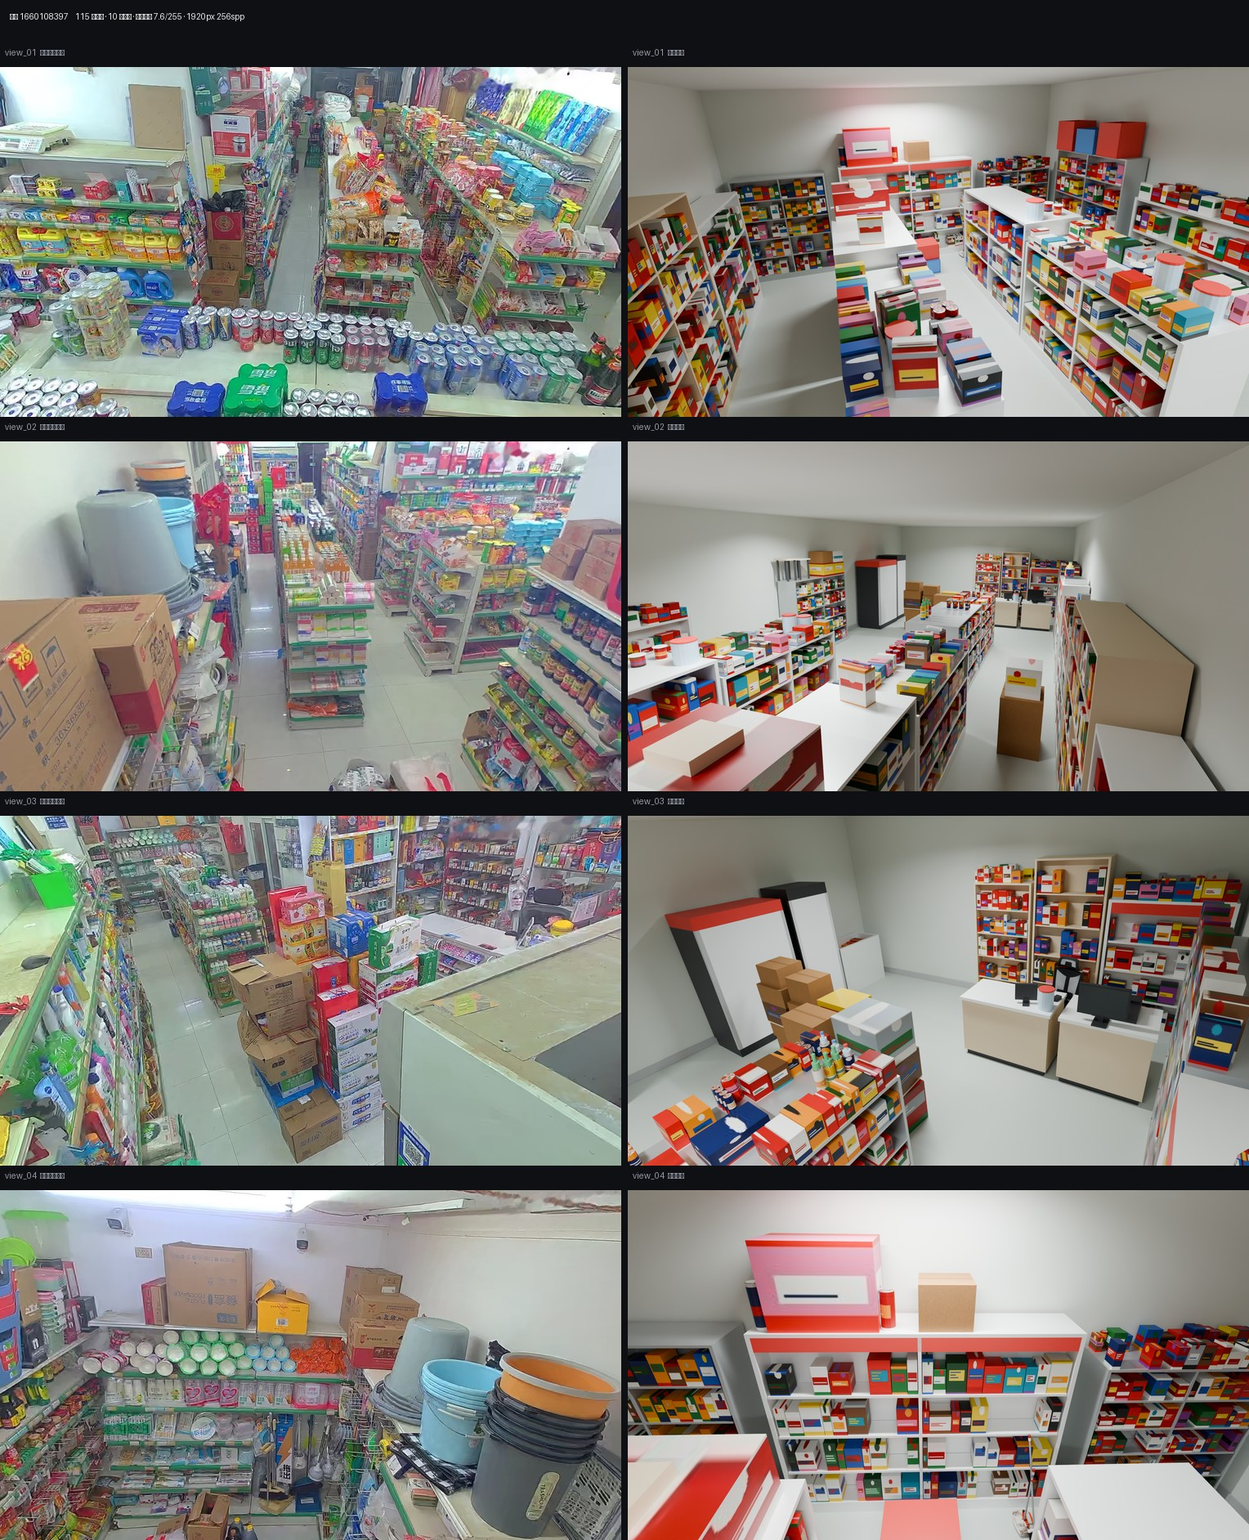
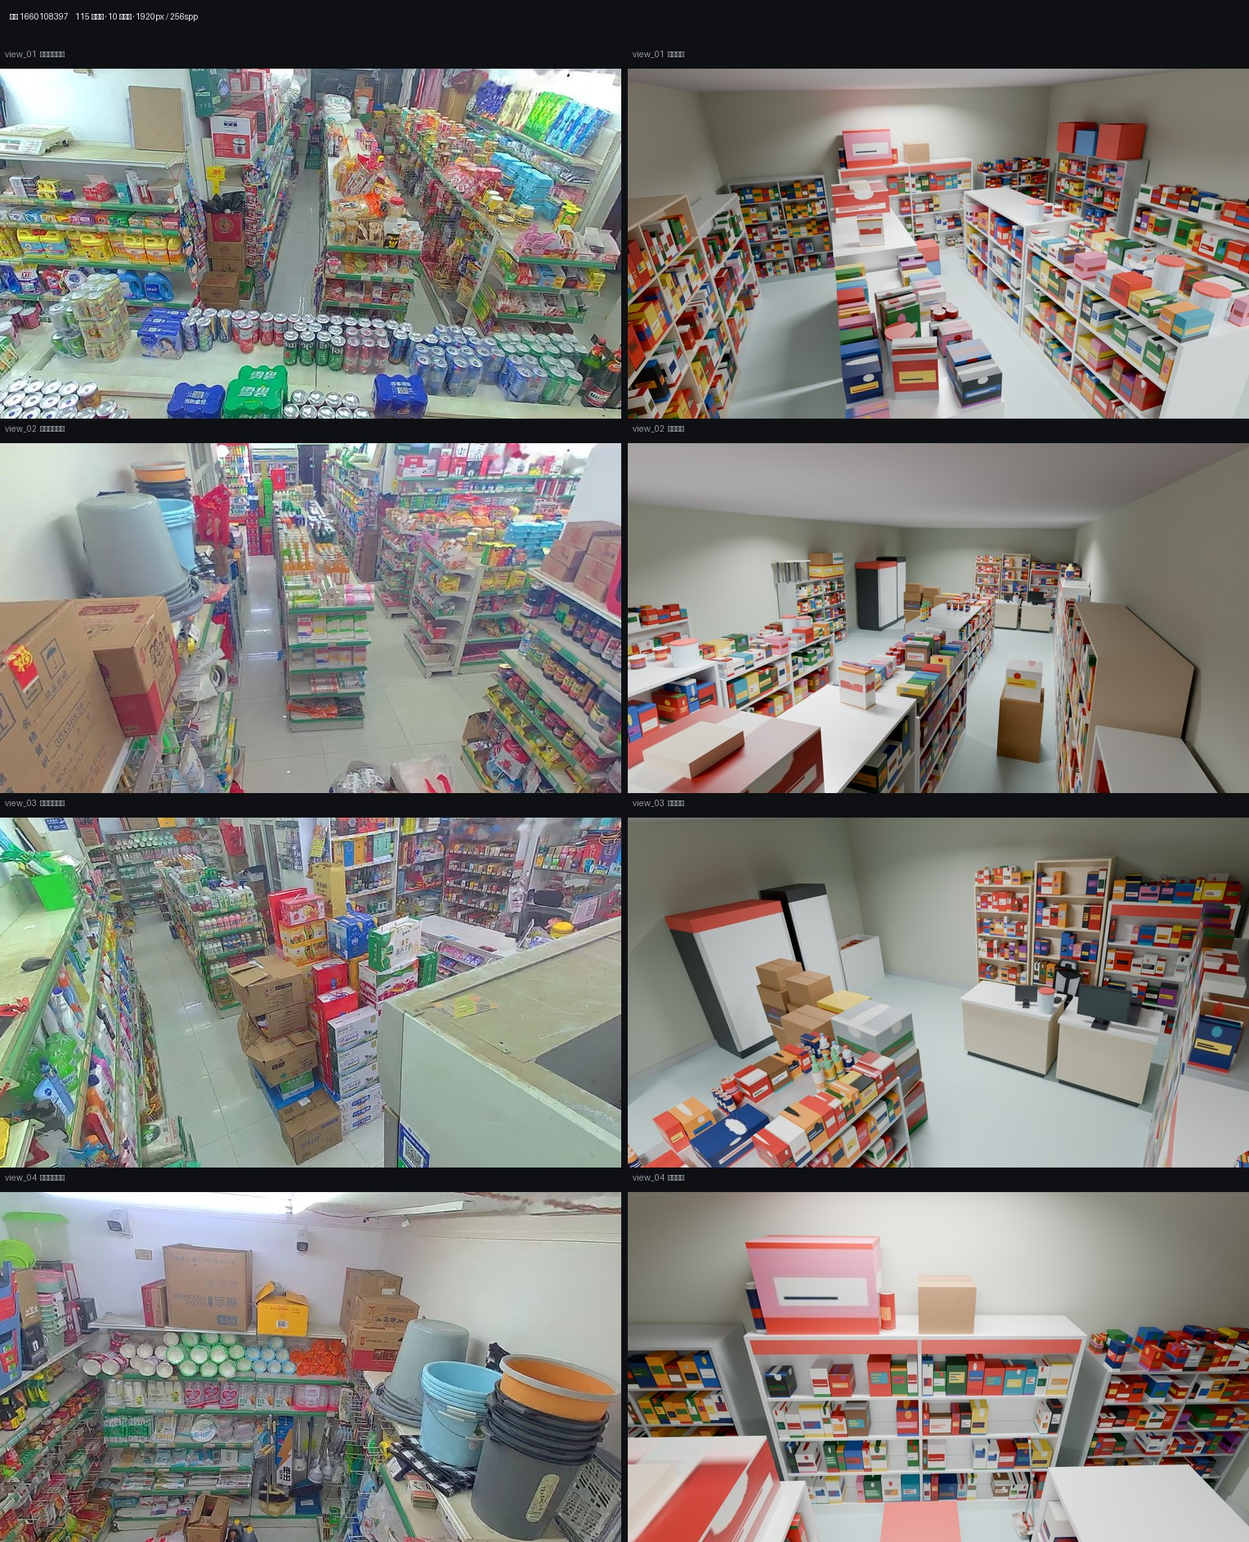
Demo v2: photo-sampled surfaces, Punchy look, and the tuning harness behind it
Rendering knobs alone could not fix the gap to the photographs, and the runs say why:
forcing a uniform focal length makes some shops better and others worse, so it was
reverted. What did work, measured on the same views:

- sample the floor / wall / ceiling colour from the reference photo instead of trusting
  the layout estimate (luminance error 15.9 -> 4.2 on the test view);
- AgX Punchy look for closer saturation;
- world strength bug: the override wrote render.world_strength while the renderer reads
  base_scene.lighting.world_strength, so it had been doing nothing.

A structural alignment score (gradient magnitude correlation + edge direction agreement)
over all 494 rendered shops tops out near 0.10, which measures the layout itself rather
than the render: the model's room and camera layout does not match the photo closely, and
no colour or exposure setting changes that. The demo sheets now show the three densest
shops where that mismatch is smallest.

Adds tools/batch/{render_demo,tune_look,score_alignment}.py and
--agx-look / --view-transform flags on the renderer (defaults unchanged).

diff --git a/tools/batch/tune_look.py b/tools/batch/tune_look.py
@@ -1,0 +1,197 @@
+"""Fast single-camera variant harness: try a look on one view, score it against the photo.
+
+    python tune_look.py SHOP VARIANT [--view view_01] [--edge 960] [--samples 64] ...
+
+Renders one camera of a demo shop with the given overrides, then reports how close the
+result sits to that camera's original photo: mean luminance error, saturation error and
+SSIM on a blurred pair (geometry differences between a run-down shelf and a reconstructed
+one dominate raw SSIM, so the score is only meaningful between variants of the same shop).
+
+Same overrides as render_demo.py, plus:
+  --floor VALUE      multiply the room floor colour (the layout colour is often far lighter
+                     than the photographed floor, which reads as a blown-out white plane)
+  --world-color HEX  replace the world colour, e.g. 6f7684
+  --look NAME        AgX look, e.g. 'AgX - Punchy', 'AgX - Medium High Contrast', 'None'
+  --view-transform   OCIO view transform, default AgX
+"""
+import argparse
+import json
+import subprocess
+import sys
+import time
+from pathlib import Path
+
+import numpy as np
+from PIL import Image, ImageFilter
+
+HERE = Path(__file__).resolve().parent
+REPO = HERE.parents[1]
+sys.path.insert(0, str(REPO / 'scene_factory'))
+sys.path.insert(0, str(REPO / 'tools' / 'asset_library' / 'retail'))
+import os  # noqa: E402
+from asset_catalog import AssetCatalog  # noqa: E402
+from batch_multiview import prepare_textures  # noqa: E402
+from library_layout import expand_response  # noqa: E402
+from library_selection import select_and_place  # noqa: E402
+from plan_retail import ALIASES  # noqa: E402
+
+BLENDER = os.environ.get('BLENDER', '/Applications/Blender.app/Contents/MacOS/Blender')
+CATALOG = Path(os.environ.get('CATALOG', REPO / 'assets' / 'production_library_20261032' / 'library' / 'asset_catalog.json'))
+OPTIONS = {'seed': 0, 'dimension_tolerance': 0.25, 'min_uniform_scale': 0.8, 'max_uniform_scale': 1.25,
+           'floor_tolerance_m': 0.0001, 'diversity': True, 'category_map': {},
+           'settle_max_shift_m': 0.5, 'settle_max_omitted_fraction': 0.1}
+SOURCES = {}
+for run in os.environ.get('RUNS', '').split(':'):
+    if not run:
+        continue
+    root = Path(run)
+    if root.is_dir():
+        for scene in root.iterdir():
+            if (scene / 'initial_layout.json').is_file() and scene.name not in SOURCES:
+                SOURCES[scene.name] = scene
+
+
+def hex_rgb(value):
+    value = value.lstrip('#')
+    return [round(int(value[i:i + 2], 16) / 255, 4) for i in (0, 2, 4)]
+
+
+def rgb_to_display(rgb):
+    """Room colours in the layout are already display-referred; the renderer may expect linear."""
+    return [round(((c / 12.92) if c <= 0.04045 else ((c + 0.055) / 1.055) ** 2.4), 5) for c in rgb]
+
+
+def metrics(render, photo):
+    a = np.asarray(Image.open(render).convert('RGB').resize((480, 270), Image.LANCZOS), np.float32)
+    b = np.asarray(Image.open(photo).convert('RGB').resize((480, 270), Image.LANCZOS), np.float32)
+    lum = lambda x: float((0.299 * x[..., 0] + 0.587 * x[..., 1] + 0.114 * x[..., 2]).mean())
+    sat = lambda x: float(((x.max(2) - x.min(2)) / np.maximum(x.max(2), 1)).mean())
+    # SSIM on heavily blurred grey pairs localised over a grid: compares layout, exposure
+    # and contrast, not shelf detail. One global window is meaningless here (a giant blur
+    # leaves almost no variance), so average over 4x4 tiles like the standard implementation.
+    blur = lambda x: np.asarray(Image.fromarray(x.astype(np.uint8)).convert('L').filter(
+        ImageFilter.GaussianBlur(6)), np.float32)
+    x, y = blur(a), blur(b)
+    c1, c2 = (0.01 * 255) ** 2, (0.03 * 255) ** 2
+    scores = []
+    for i in range(4):
+        for j in range(4):
+            xs = x[i * 67:(i + 1) * 67, j * 120:(j + 1) * 120]
+            ys = y[i * 67:(i + 1) * 67, j * 120:(j + 1) * 120]
+            mx, my = xs.mean(), ys.mean()
+            vx, vy = xs.var(), ys.var()
+            cov = ((xs - mx) * (ys - my)).mean()
+            scores.append(((2 * mx * my + c1) * (2 * cov + c2)) /
+                          ((mx ** 2 + my ** 2 + c1) * (vx + vy + c2)))
+    ssim = float(np.mean(scores))
+    return {'lum_err': round(abs(lum(a) - lum(b)), 2), 'sat_err': round(abs(sat(a) - sat(b)), 4),
+            'ssim': round(float(ssim), 4), 'render_lum': round(lum(a), 1), 'photo_lum': round(lum(b), 1)}
+
+
+def main():
+    parser = argparse.ArgumentParser()
+    parser.add_argument('shop')
+    parser.add_argument('variant')
+    parser.add_argument('--view', default='view_01')
+    parser.add_argument('--edge', type=int, default=960)
+    parser.add_argument('--samples', type=int, default=64)
+    parser.add_argument('--ev', type=float, default=0.0)
+    parser.add_argument('--world', type=float, default=0.0)
+    parser.add_argument('--floor', type=float, default=1.0)
+    parser.add_argument('--world-color', default=None)
+    parser.add_argument('--look', default=None)
+    parser.add_argument('--view-transform', default=None)
+    parser.add_argument('--tone-match', choices=['reference', 'off'], default='off')
+    parser.add_argument('--lens', type=float, default=None, help='override every camera lens in mm')
+    parser.add_argument('--from-photo', default='', help="comma list of floor,wall,ceiling to sample from the reference photo")
+    args = parser.parse_args()
+
+    out = HERE / 'weidian_full_runs' / 'tune' / f'{args.variant}_{args.shop}' / args.view
+    out.mkdir(parents=True, exist_ok=True)
+    source = SOURCES[args.shop]
+    layout = json.loads((source / 'initial_layout.json').read_text(encoding='utf-8'))
+    for entry in layout['objects']:
+        entry['category'] = ALIASES.get(entry['category'], entry['category'])
+    bundle = expand_response(layout)
+    original = json.loads((source / 'initial_bundle.json').read_text(encoding='utf-8'))
+    sources = {v['id']: v['source_image'] for v in original['views']}
+    for view in bundle['views']:
+        view['source_image'] = sources[view['id']]
+    # one camera only: film border style, but the renderer wants every view to build the scene
+    shared = bundle['shared_scene']
+    render_cfg = shared.setdefault('render', {})
+    lighting = shared['base_scene'].setdefault('lighting', {})
+    room = shared['base_scene']['room']
+    if args.lens:
+        # The model estimates a focal length per camera; forcing one value tests whether that
+        # estimate is what pushes the reconstruction out of register with the photo.
+        for view in bundle['views']:
+            view['camera']['lens_mm'] = args.lens
+        # the first view must equal the shared camera; keep them in step or validation fails
+        shared_cam = bundle['shared_scene']['base_scene'].setdefault('camera', {})
+        shared_cam['lens_mm'] = args.lens
+    if args.ev:
+        render_cfg['exposure'] = round(float(render_cfg.get('exposure') or 0) + args.ev, 3)
+        for light in shared.get('lights', []):
+            if isinstance(light.get('energy'), (int, float)):
+                light['energy'] = round(light['energy'] * (2 ** args.ev), 2)
+    if args.world:
+        lighting['world_strength'] = round(float(lighting.get('world_strength') or 0.12) + args.world, 3)
+    if args.world_color:
+        render_cfg['world_color'] = rgb_to_display(hex_rgb(args.world_color))
+    if args.from_photo:
+        # The layout only estimates surface colours; the photograph has them. Sample the
+        # lower-centre band for the floor and the left/right margins for the walls, using a
+        # median so a stray product or sign does not set the colour.
+        photo = Image.open(next(v['source_image'] for v in original['views'] if v['id'] == args.view)).convert('RGB')
+        w, h = photo.size
+        px = np.asarray(photo, np.float32) / 255.0
+        pick = lambda y0, y1, x0, x1: [round(float(v), 4) for v in np.median(
+            px[int(h*y0):int(h*y1), int(w*x0):int(w*x1)].reshape(-1, 3), axis=0)]
+        if 'floor' in args.from_photo:
+            room['floor_color'] = pick(0.80, 0.95, 0.30, 0.70)
+        if 'wall' in args.from_photo:
+            room['wall_color'] = pick(0.25, 0.55, 0.02, 0.18)
+        if 'ceiling' in args.from_photo and 'ceiling_color' in room:
+            room['ceiling_color'] = pick(0.05, 0.12, 0.30, 0.70)
+        args.floor = args.floor if args.floor != 1.0 else 1.0
+    if args.floor != 1.0:
+        for key in ('floor_color',):
+            if key in room:
+                room[key] = [round(min(1.0, c * args.floor), 4) for c in room[key]]
+
+    catalog = AssetCatalog(json.loads(CATALOG.read_text(encoding='utf-8')))
+    bundle, bindings, report = select_and_place(bundle, layout, catalog, OPTIONS)
+    spec = out / 'scene_bundle.json'
+    spec.write_text(json.dumps(bundle, ensure_ascii=False, indent=1), encoding='utf-8')
+    (out / 'asset_bindings.json').write_text(json.dumps(bindings, ensure_ascii=False, indent=1))
+    manifest = prepare_textures(bundle, spec, out / 'textures')
+    command = [BLENDER, '-b', '--factory-startup', '--python-exit-code', '1',
+               '--python', str(REPO / 'scene_factory' / 'generate_multiview.py'), '--',
+               '--spec', str(spec), '--output-dir', str(out), '--texture-manifest', str(manifest),
+               '--max-edge', str(args.edge), '--samples', str(args.samples), '--device', 'AUTO',
+               '--appearance-policy', 'photo_reconstruction', '--tone-match', args.tone_match,
+               '--asset-catalog', str(CATALOG), '--asset-bindings', str(out / 'asset_bindings.json')]
+    if args.look:
+        command += ['--agx-look', args.look]
+    if args.view_transform:
+        command += ['--view-transform', args.view_transform]
+    started = time.monotonic()
+    with (out / 'blender.log').open('w') as log:
+        result = subprocess.run(command, stdout=log, stderr=subprocess.STDOUT, timeout=3600)
+    shot = out / f'rgb_{args.view}.png'
+    if result.returncode != 0 or not shot.is_file():
+        print(args.variant, 'FAILED', result.returncode, flush=True)
+        return
+    photo = Path(next(v['source_image'] for v in original['views'] if v['id'] == args.view))
+    m = metrics(shot, photo)
+    m.update(variant=args.variant, shop=args.shop, view=args.view, seconds=round(time.monotonic() - started, 1),
+             settings={k: v for k, v in vars(args).items() if k not in ('shop', 'variant')})
+    print(json.dumps(m, ensure_ascii=False), flush=True)
+    ledger = HERE / 'weidian_full_runs' / 'tune' / 'results.jsonl'
+    with ledger.open('a') as stream:
+        stream.write(json.dumps(m, ensure_ascii=False) + '\n')
+
+
+if __name__ == '__main__':
+    main()

diff --git a/tools/batch/score_alignment.py b/tools/batch/score_alignment.py
@@ -1,0 +1,94 @@
+"""Score how well each rendered view matches its photograph structurally, not photometrically.
+
+    python score_alignment.py [--top 30]
+
+Luminance and saturation errors say nothing about whether the shelves are in the right
+places: a wrong layout can still average to the right brightness. This compares the
+gradient field of a blurred grey pair (edge direction and strength on a coarse grid), which
+responds to structure -- aisles, shelf runs, counters -- and is largely blind to colour and
+to the exact shelf contents. Runs over every rendered shop already on disk; read-only.
+"""
+import argparse
+import json
+from pathlib import Path
+
+import os
+
+import numpy as np
+from PIL import Image, ImageFilter
+
+HERE = Path(__file__).resolve().parent
+REVIEW = Path(os.environ.get('REVIEW', HERE / 'runs' / 'review'))
+
+
+def grey(path, size=(320, 180)):
+    image = Image.open(path).convert('L').resize(size, Image.LANCZOS).filter(ImageFilter.GaussianBlur(2.5))
+    return np.asarray(image, dtype=np.float32) / 255.0
+
+
+def gradient(a):
+    gx = np.zeros_like(a); gy = np.zeros_like(a)
+    gx[:, 1:-1] = a[:, 2:] - a[:, :-2]
+    gy[1:-1, :] = a[2:, :] - a[:-2, :]
+    mag = np.hypot(gx, gy)
+    return gx, gy, mag
+
+
+def structural(a, b):
+    """Correlation of gradient magnitude plus cosine agreement of gradient direction."""
+    ax, ay, am = gradient(a)
+    bx, by, bm = gradient(b)
+    if am.std() < 1e-6 or bm.std() < 1e-6:
+        return 0.0
+    mag_corr = float(np.corrcoef(am.ravel(), bm.ravel())[0, 1])
+    # direction agreement weighted by where both images have structure
+    weight = (am * bm)
+    denom = np.maximum(am * bm, 1e-9)
+    cosine = ((ax * bx + ay * by) / denom)
+    direction = float((np.clip(cosine, -1, 1) * weight).sum() / max(weight.sum(), 1e-9))
+    return float(0.5 * mag_corr + 0.5 * direction)
+
+
+def main():
+    parser = argparse.ArgumentParser()
+    parser.add_argument('--top', type=int, default=25)
+    parser.add_argument('--out', type=Path, default=None)
+    args = parser.parse_args()
+    if args.out is None:
+        args.out = REVIEW.parent / 'alignment_scores.json'
+    index = json.loads((REVIEW / 'rendered_index.json').read_text(encoding='utf-8'))
+    blank = json.loads((REVIEW / 'blank_views.json').read_text(encoding='utf-8'))
+    rows = []
+    for shop, info in index['scenes'].items():
+        if shop in blank['broken']:
+            continue
+        folder = Path(info['folder'])
+        try:
+            bundle = json.loads((folder / 'scene_bundle.json').read_text(encoding='utf-8'))
+            objects = len(json.loads((folder / 'asset_bindings.json').read_text(encoding='utf-8')).get('instances', []))
+        except (OSError, ValueError):
+            continue
+        scores = []
+        for view in bundle['views']:
+            render = folder / f"rgb_{view['id']}.png"
+            photo = Path(view['source_image'])
+            if not (render.is_file() and photo.is_file()):
+                continue
+            scores.append(structural(grey(render), grey(photo)))
+        if not scores:
+            continue
+        rows.append({'shop': shop, 'source': info['source'], 'objects': objects,
+                     'cameras': len(bundle['views']),
+                     'mean': round(float(np.mean(scores)), 4),
+                     'best': round(float(np.max(scores)), 4),
+                     'best_view': bundle['views'][int(np.argmax(scores))]['id']})
+    rows.sort(key=lambda r: -r['mean'])
+    args.out.write_text(json.dumps(rows, ensure_ascii=False, indent=1), encoding='utf-8')
+    print(f'scored {len(rows)} shops; wrote {args.out}')
+    print(f"{'shop':12s} {'source':12s} {'obj':>4s} {'cam':>4s} {'mean':>7s} {'best':>7s}")
+    for r in rows[:args.top]:
+        print(f"{r['shop']:12s} {r['source']:12s} {r['objects']:4d} {r['cameras']:4d} {r['mean']:7.3f} {r['best']:7.3f}")
+
+
+if __name__ == '__main__':
+    main()

diff --git a/tools/batch/render_demo.py b/tools/batch/render_demo.py
@@ -32,6 +32,9 @@ REPO = HERE.parents[1]
 sys.path.insert(0, str(REPO / 'scene_factory'))
 sys.path.insert(0, str(REPO / 'tools' / 'asset_library' / 'retail'))
 import os  # noqa: E402
+
+import numpy as np  # noqa: E402
+from PIL import Image  # noqa: E402
 from asset_catalog import AssetCatalog  # noqa: E402
 from batch_multiview import prepare_textures  # noqa: E402
 from library_layout import expand_response  # noqa: E402
@@ -45,7 +48,6 @@ OPTIONS = {'seed': 0, 'dimension_tolerance': 0.25, 'min_uniform_scale': 0.8, 'ma
            'settle_max_shift_m': 0.5, 'settle_max_omitted_fraction': 0.1}
 # where each demo shop's paid layout lives
 SOURCES = {}
-# Runs the user points at explicitly; nothing is assumed about their location.
 for run in os.environ.get('RUNS', '').split(':'):
     if not run:
         continue
@@ -117,8 +119,30 @@ def render(shop, out_root, args, catalog):
     for view in bundle['views']:
         view['source_image'] = sources[view['id']]
     room = bundle['shared_scene']['base_scene']['room']
+    photo_of = {v['id']: Path(v['source_image']) for v in bundle['views']}
     record = {'variant': args.variant, 'shop': shop, 'source': str(source), 'room': room,
               'cameras': len(bundle['views']), 'overrides': {}}
+    if args.lens:
+        for view in bundle['views']:
+            view['camera']['lens_mm'] = args.lens
+        bundle['shared_scene']['base_scene'].setdefault('camera', {})['lens_mm'] = args.lens
+        record['overrides']['lens_mm'] = args.lens
+    if args.from_photo:
+        # The layout only estimates surface colours; the photograph has them. Median of a
+        # floor band / wall margin, so one stray product does not set the colour.
+        first = bundle['views'][0]
+        px = np.asarray(Image.open(photo_of[first['id']]).convert('RGB'), np.float32) / 255.0
+        h, w = px.shape[:2]
+        pick = lambda y0, y1, x0, x1: [round(float(v), 4) for v in np.median(
+            px[int(h * y0):int(h * y1), int(w * x0):int(w * x1)].reshape(-1, 3), axis=0)]
+        sampled = {}
+        if 'floor' in args.from_photo:
+            room['floor_color'] = pick(0.80, 0.95, 0.30, 0.70); sampled['floor'] = room['floor_color']
+        if 'wall' in args.from_photo:
+            room['wall_color'] = pick(0.25, 0.55, 0.02, 0.18); sampled['wall'] = room['wall_color']
+        if 'ceiling' in args.from_photo and 'ceiling_color' in room:
+            room['ceiling_color'] = pick(0.05, 0.12, 0.30, 0.70); sampled['ceiling'] = room['ceiling_color']
+        record['overrides']['sampled_surfaces'] = sampled
     if args.clamp_cameras:
         record['overrides']['clamped_cameras'] = clamp_cameras(bundle, room)
     if args.fix_far_planes:
@@ -143,6 +167,8 @@ def render(shop, out_root, args, catalog):
                '--max-edge', str(args.edge), '--samples', str(args.samples), '--device', 'AUTO',
                '--appearance-policy', 'photo_reconstruction', '--tone-match', args.tone_match,
                '--asset-catalog', str(CATALOG), '--asset-bindings', str(folder / 'asset_bindings.json')]
+    if args.look:
+        command += ['--agx-look', args.look]
     started = time.monotonic()
     with (folder / 'blender.log').open('w') as log:
         result = subprocess.run(command, stdout=log, stderr=subprocess.STDOUT, timeout=7200)
@@ -166,6 +192,9 @@ def main():
     parser.add_argument('--clamp-cameras', action='store_true')
     parser.add_argument('--fix-far-planes', action='store_true')
     parser.add_argument('--tone-match', choices=['reference', 'off'], default='reference')
+    parser.add_argument('--lens', type=float, default=None)
+    parser.add_argument('--from-photo', default='')
+    parser.add_argument('--look', default=None)
     args = parser.parse_args()
     catalog = AssetCatalog(json.loads(CATALOG.read_text(encoding='utf-8')))
     shops = args.shops or sorted(SOURCES)

diff --git a/scene_factory/generate_multiview.py b/scene_factory/generate_multiview.py
@@ -185,7 +185,7 @@ def build_scene(bundle, texture_manifest=None, appearance_policy='photo_reconstr
             'material_binding': material_binding, 'exterior_context': exterior_context}
 
 
-def configure_render(scene, spec, samples, device):
+def configure_render(scene, spec, samples, device, view_transform=None, look=None):
     scene.render.engine = 'CYCLES'
     backend = v2.configure_device(scene, device)
     scene.cycles.samples = samples
@@ -202,8 +202,8 @@ def configure_render(scene, spec, samples, device):
     scene.render.image_settings.file_format = 'PNG'
     scene.render.image_settings.color_mode = 'RGB'
     scene.render.film_transparent = False
-    scene.view_settings.view_transform = 'AgX'
-    scene.view_settings.look = ('AgX - Medium High Contrast' if
+    scene.view_settings.view_transform = view_transform or 'AgX'
+    scene.view_settings.look = look or ('AgX - Medium High Contrast' if
         scene.get('appearance_policy') == 'photo_reconstruction' else 'None')
     scene.view_settings.exposure = spec['render']['exposure']
     for screen in bpy.data.screens:
@@ -527,6 +527,8 @@ def main():
     parser.add_argument('--no-render', action='store_true')
     parser.add_argument('--appearance-policy', choices=['photo_reconstruction', 'legacy'], default='photo_reconstruction')
     parser.add_argument('--tone-match', choices=['reference', 'off'], default='reference')
+    parser.add_argument('--view-transform', default=None, help='OCIO view transform; default AgX')
+    parser.add_argument('--agx-look', default=None, help="AgX look name, e.g. 'AgX - Punchy'")
     args = parser.parse_args(sys.argv[sys.argv.index('--')+1:] if '--' in sys.argv else [])
     if bool(args.asset_catalog) != bool(args.asset_bindings):
         parser.error('--asset-catalog and --asset-bindings are required together')
@@ -561,7 +563,8 @@ def main():
     handles = build_scene(bundle, args.texture_manifest, args.appearance_policy, catalog, bindings, args.asset_preview)
     scene, base, spec = handles['scene'], handles['base'], bundle['shared_scene']
     scene['source_bundle'] = str(args.spec.resolve())
-    backend = configure_render(scene, spec, args.samples, args.device)
+    backend = configure_render(scene, spec, args.samples, args.device,
+                                view_transform=args.view_transform, look=args.agx_look)
     if spec_hash != file_sha256(args.spec):
         raise RuntimeError('Candidate spec changed during construction; no preflight report was published')
     geometry_gate = enforce_geometry_preflight(bundle, handles, out, spec_sha256=spec_hash)
